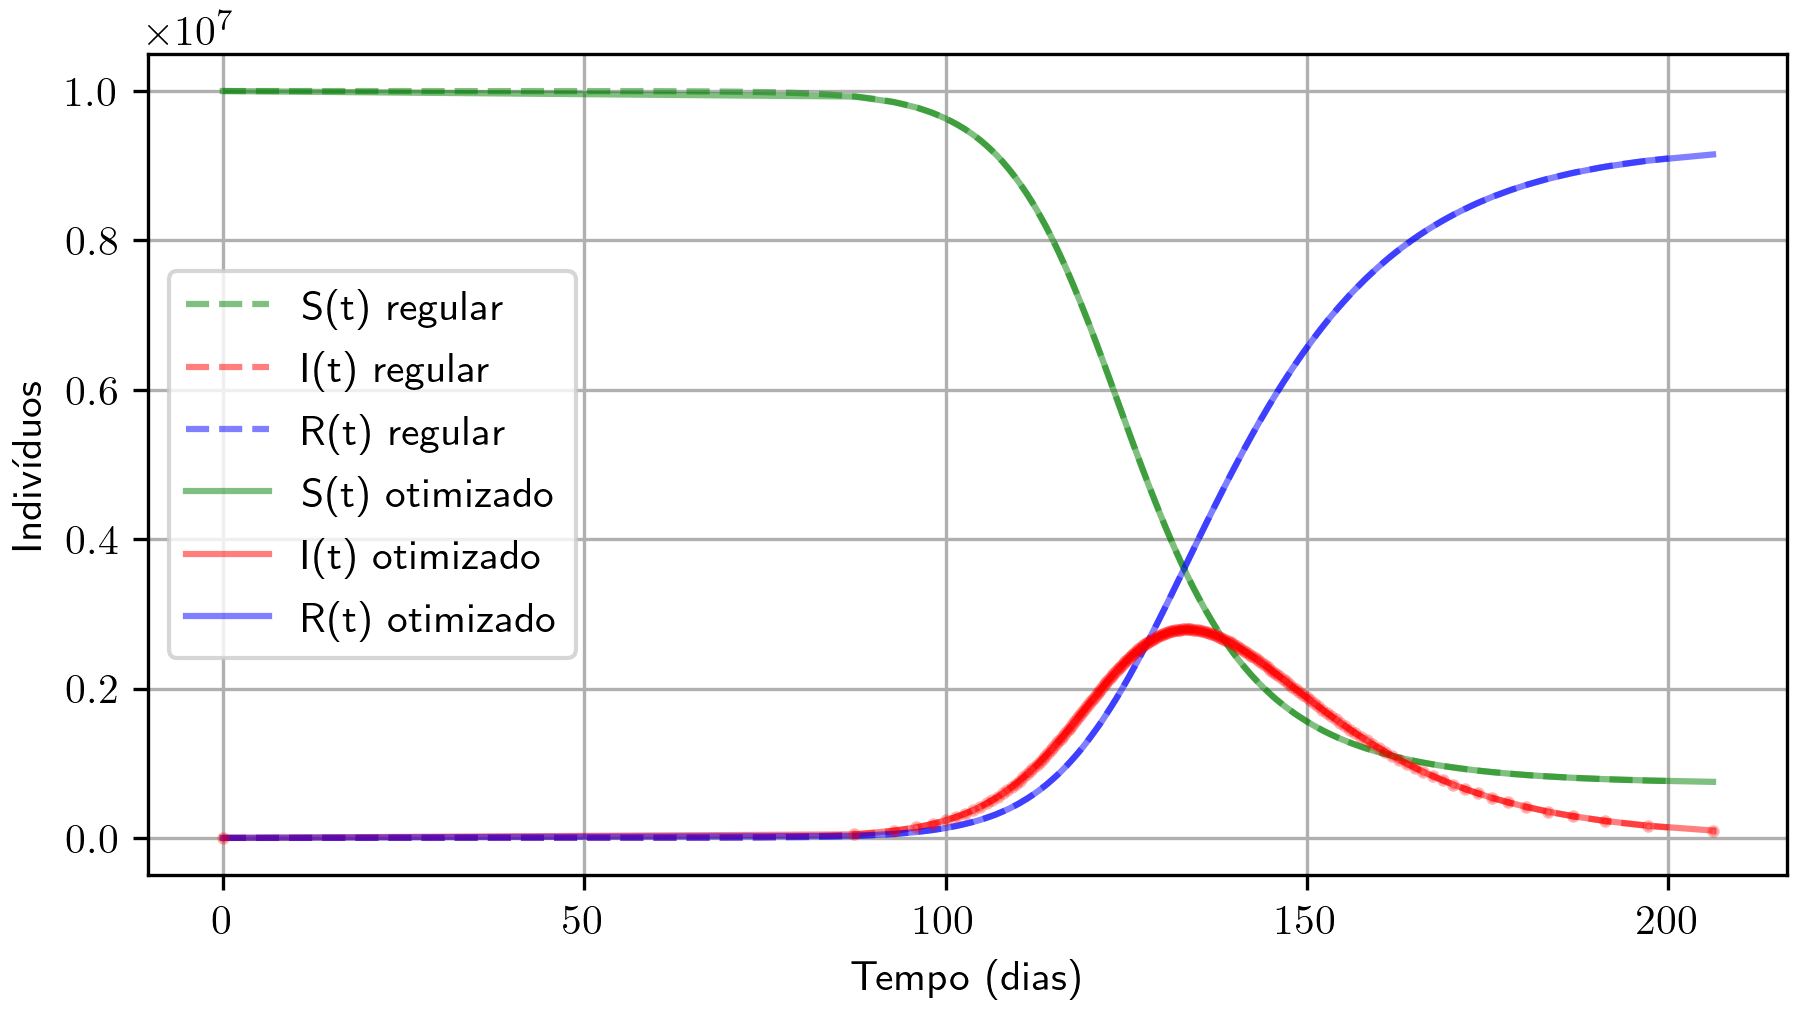
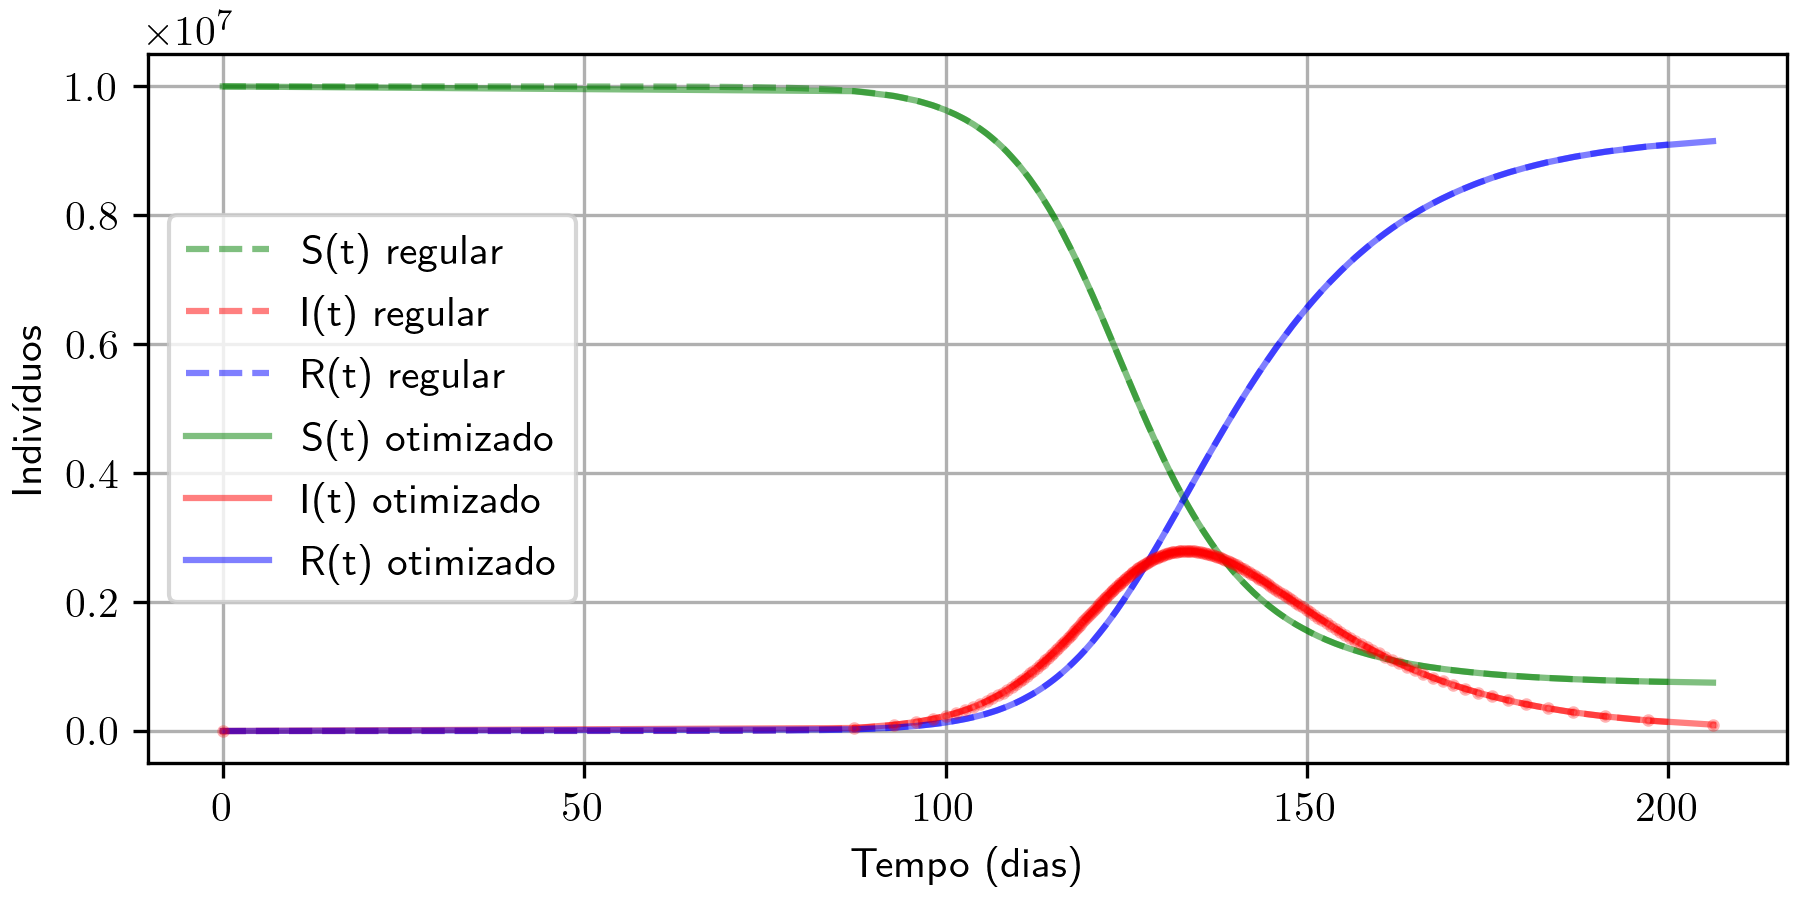
Updated paper images

diff --git a/paper_enmc.py b/paper_enmc.py
@@ -5,6 +5,13 @@ import numpy as np
 import matplotlib.pyplot as plt
 from memory_profiler import profile, memory_usage
 import timeitplot as tp
+import timeit
+
+# TODO:
+#   Diminuir altura das figuras
+
+# Clean up...
+plt.close('all')
 
 # Define formato de exibicao do numpy
 np.set_printoptions(suppress=True, precision=3)
@@ -125,7 +132,7 @@ experiments.append(resmem)
 
 filename = 'imgs/enmc_exp_memory_naive_and_simul.png'
 print(f"Salvando imagem do experimento 1 em {filename}")
-fig, ax = plt.subplots(1,1, figsize=(6,3.37), dpi=150, constrained_layout=True)
+fig, ax = plt.subplots(1,1, figsize=(6,3.), dpi=150, constrained_layout=True)
 ax.plot(experiments[0][:,0], experiments[0][:,1]/1000,'b-', markersize=2, alpha=.4, label='Regular');
 ax.plot(experiments[1][:,0], experiments[1][:,1]/1000,'r-', markersize=2, alpha=.4, label='Otimizado');
 ax.plot(experiments[0][:,0], experiments[0][:,1]/1000,'bo', markersize=2, alpha=.4);
@@ -186,11 +193,29 @@ else:
     with open(compute_file, 'w') as fd:
         fd.write(json.dumps(perf, cls=tp.NpEncoder))
 
+reg = np.array(perf['Regular'])
+oti = np.array(perf['Otimizado'])
+speedup = reg[:,1]/oti[:,1]
 
 #fig, ax = plt.subplots(figsize=(6,4.24),dpi=150, constrained_layout=True)
-fig, ax = plt.subplots(figsize=(6,3.375),dpi=150, constrained_layout=True)
-ax = tp.timeit_plot2D(perf, ax, 'Indivíduos', 'Comparativo de performance')
+fig, ax = plt.subplots(figsize=(6,3.),dpi=150, constrained_layout=True)
+ax = tp.timeit_plot2D(perf, ax, 'Indivíduos', '')
 ax.set_xscale('log')
+
+# Speedup axis
+ax2 = ax.twinx()
+ax2.plot(reg[:,0], speedup, 'g', alpha=.8, linewidth=1, label='Speedup')
+ax2.set_ylabel('Speedup', color='green')
+ax2.tick_params(axis='y', labelcolor='green')
+
+# Not working
+# import matplotlib.text as mtxt
+# import matplotlib.patches as mpatches
+# leg = ax.get_legend()
+# patch = mpatches.Patch(color='green', alpha=.8)
+# text = mtxt.Text(0, 0, 'Speedup')
+# leg.legendHandles.append(patch)
+# leg.texts.append(text)
 
 filename = f'imgs/enmc_exp_computing.png'
 print(f"Saving {filename}")
@@ -226,7 +251,7 @@ else:
     np.savez_compressed(results_file, expsto=expsto, expnai=expnai, expsto2=expsto2,
             args=(N, I_0, r_0, beta, gamma, T, dec, seed))
 
-fig, ax = plt.subplots(1, 1, figsize=(6,3.375), dpi=150, constrained_layout=True)
+fig, ax = plt.subplots(1, 1, figsize=(6,3.), dpi=150, constrained_layout=True)
 sir_plot(ax, expnai[::1000,:], label=['S(t) regular',' I(t) regular', 'R(t) regular'], dashed=True);
 sir_plot(ax, expsto, label=['S(t) otimizado',' I(t) otimizado', 'R(t) otimizado']);
 ax.plot(expsto[:,0], expsto[:,2], 'ro', markersize=2, alpha=.3)
@@ -263,3 +288,11 @@ filename = 'imgs/enmc_exp_results_inset_good_dec.png'
 print(f"Salvando imagem do experimento 3 em {filename}")
 fig.savefig(filename, dpi=300)
 
+
+
+# Experiment 4
+#
+# Speedup
+#expsto = sir_sto_simul(N, I_0, r_0, beta, gamma, T, dec, seed=seed)
+#expnai = sir_sto_naive(N, I_0, r_0, beta, gamma, T, seed=seed)
+# expnai = np.array(expnai).transpose()
